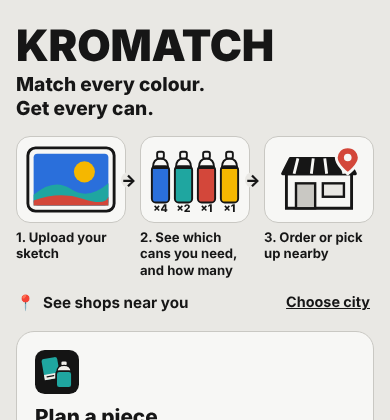
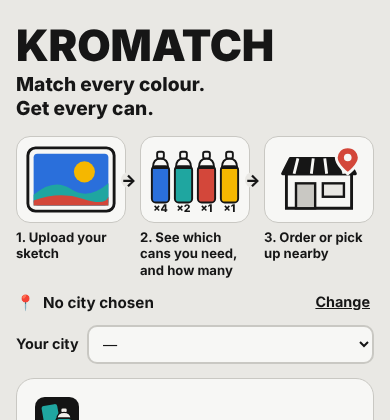
Add files via upload

diff --git a/index.html b/index.html
@@ -410,6 +410,9 @@
     <button type="button" class="link-btn" id="seeShops" data-i18n="seeShops" hidden></button></div>
   <label class="shop-pick" id="shopPick" hidden><span data-i18n="shopLabel"></span>
     <select id="shopPickSel"></select></label>
+  <!-- no city known yet: choose it right here -->
+  <label class="shop-pick" id="cityPick" hidden><span data-i18n="cityLabel"></span>
+    <select id="cityPickSel"></select></label>
   <div class="loc-suggest" id="locSuggest" hidden><span id="locSuggestText"></span>
     <div class="row-actions" style="margin-top:8px">
       <button type="button" class="primary small" id="locSwitch" data-i18n="locSwitch"></button>
@@ -4686,6 +4689,11 @@ $('closeSettings').addEventListener('click', () => navBack());
 document.querySelectorAll('.set-lang').forEach(b => b.addEventListener('click', () => {
   lang = b.dataset.lang; store.lang = lang; save(); applyLang(); renderSettings(); renderFavs();
 }));
+$('cityPickSel').addEventListener('change', e => {
+  if (!e.target.value) return;
+  store.city = e.target.value; store.cityAuto = false; if (store.city !== 'other') store.cityOther = '';
+  save(); updateLocBar(); renderListCount(); if (lastSample) showResults(); rematchDesign();
+});
 $('setCity').addEventListener('change', e => {
   store.city = e.target.value; store.cityAuto = false; if (store.city !== 'other') store.cityOther = '';
   save(); renderSettings(); updateLocBar(); $('locMsg').textContent = '';
@@ -4723,6 +4731,8 @@ function updateLocBar() {
     $('locText').textContent = store.city ? t('locNear').replace('{city}', cityName(store.city)) : t('locNoCity');
     $('locChange').textContent = t('locChange');
   }
+  $('cityPick').hidden = !!store.city || !!lockedShop;
+  if (!$('cityPick').hidden) fillCitySelect($('cityPickSel'), '');
   renderShopPick();
 }
 $('shopPickSel').addEventListener('change', e => {
